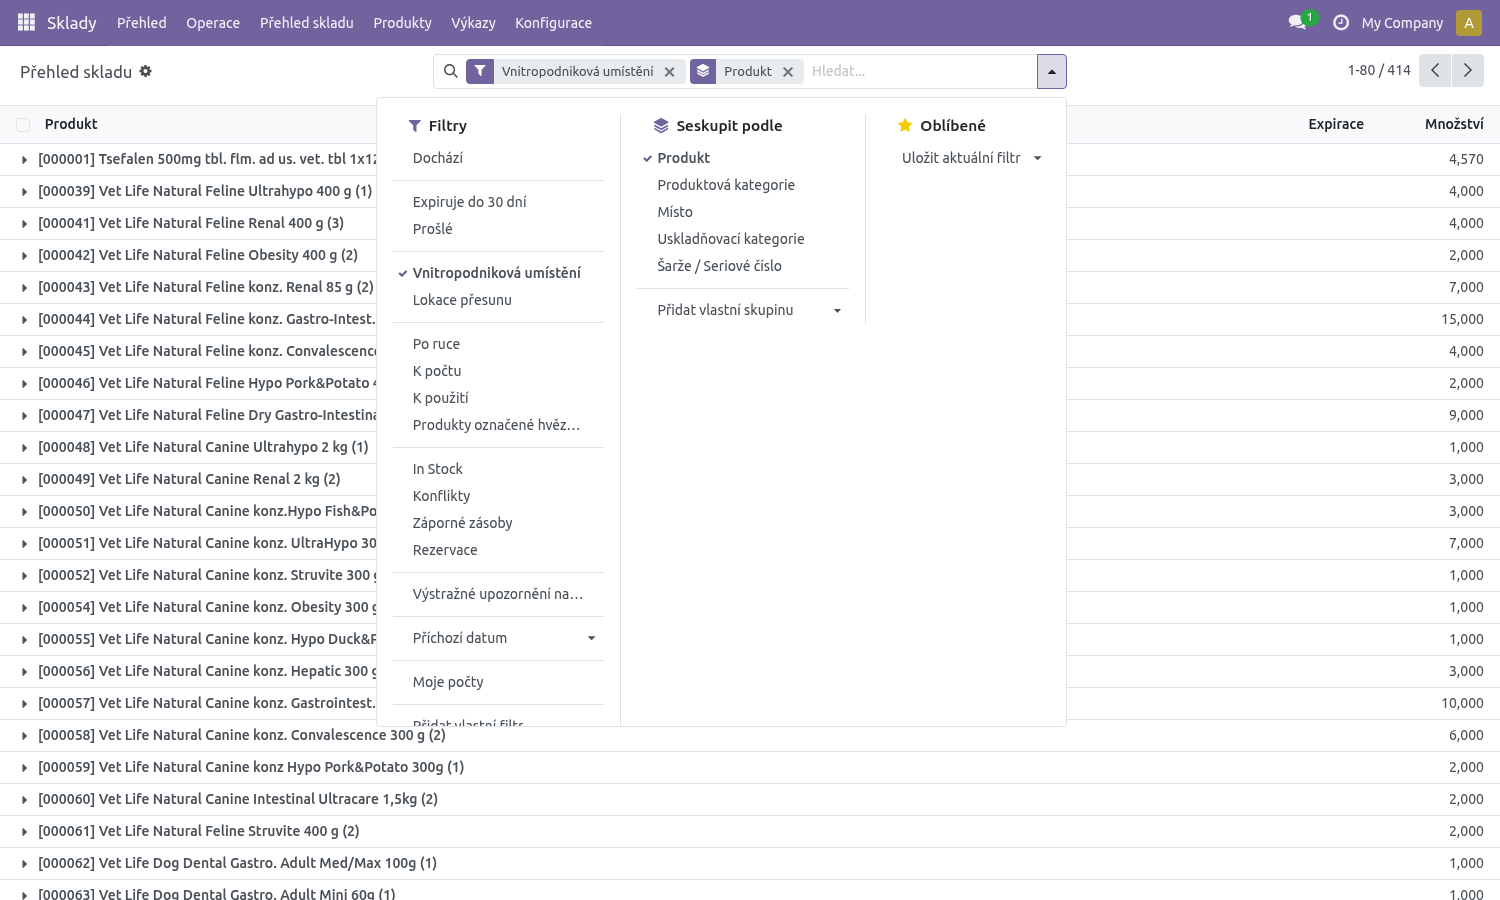
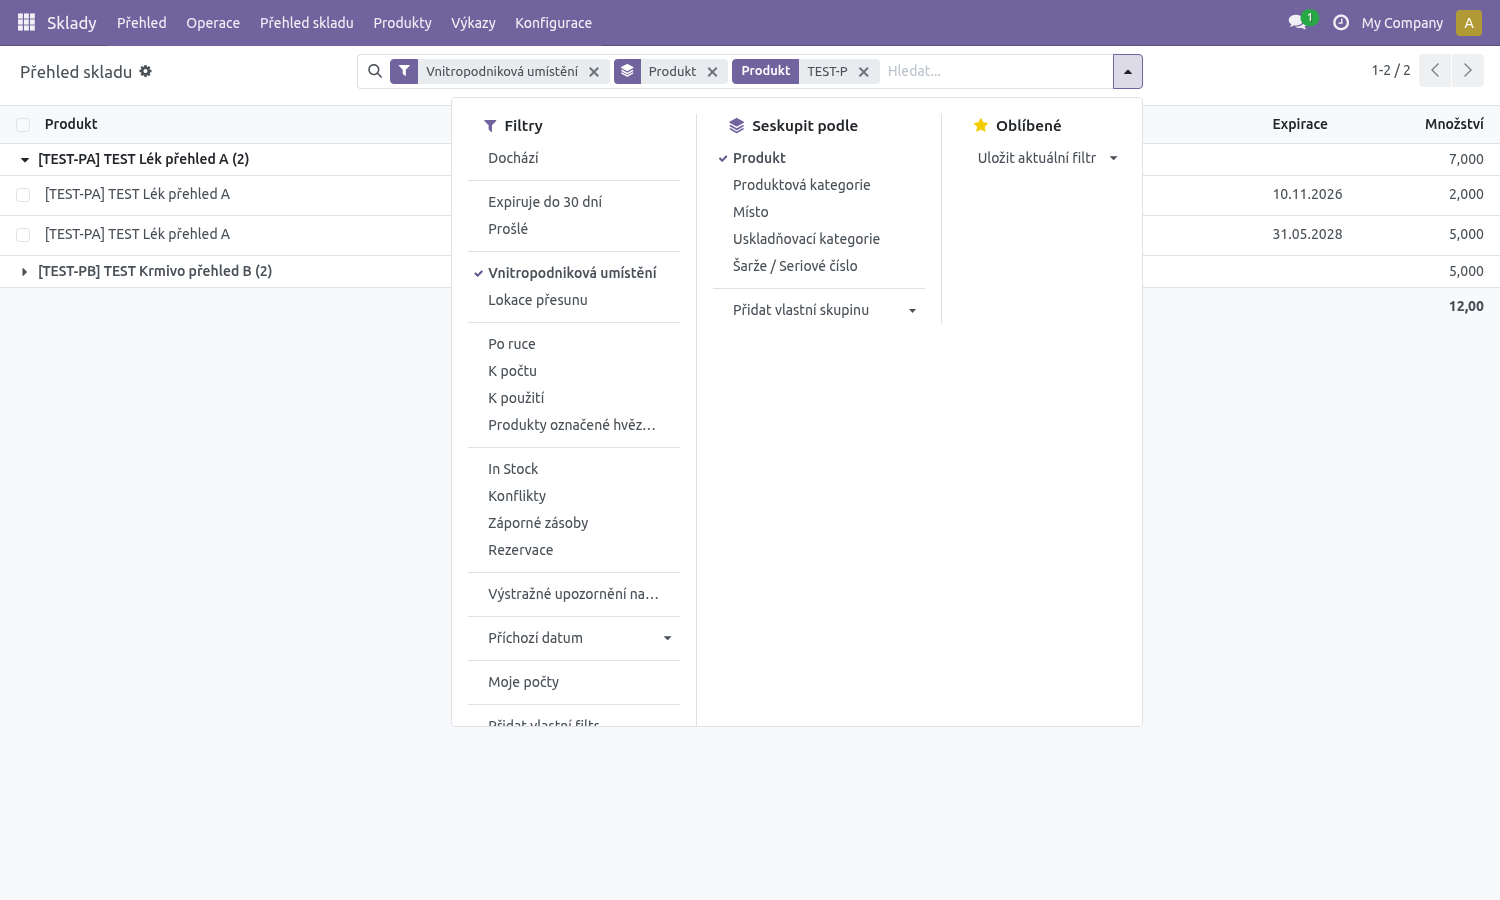
docs(elite-vet): sale – guide wording and screenshots
Button label Nabídka/Objednávka, refund via Akce → Refundace, wording fix;
expense and stock overview screenshots re-taken on test data only.

diff --git a/elite_vet/elite_vet_sale/doc/pokladna-a-sklad.md b/elite_vet/elite_vet_sale/doc/pokladna-a-sklad.md
@@ -34,8 +34,8 @@ Na konci návštěvy klikne **Hotovo, k pokladně** a potvrdí:
 Od té chvíle:
 
 - záznam je uzavřený a v kartě je štítek **Čeká na platbu · S00400** (číslo objednávky,
-  pod kterým účet najdete v pokladně) s poznámkou „Recepce účet najde v pokladně pod
-  tlačítkem Objednávka“,
+  pod kterým účet najdete v pokladně) s poznámkou pro recepci, kde účet v pokladně najde
+  (**Akce → Nabídka/Objednávka**),
 - na **tabuli** má rezervace žlutý štítek **k pokladně**.
 
 ![Karta po Hotovo](img/karta-k-pokladne.png)
@@ -43,11 +43,13 @@ Od té chvíle:
 ![Štítek k pokladně na tabuli](img/tabule-k-pokladne.png)
 
 Když lékařka záznam znovu otevře a doplní, nové **Hotovo** účet přepíše – pořád je to tatáž
-objednávka, nic se nezdvojí.
+objednávka, nic se nezdvojí. Má-li ale recepce účet právě rozpracovaný v pokladně, **Hotovo** skončí
+hláškou „Recepce účet právě vyřizuje v pokladně – počkejte na dokončení platby.“ – počkejte,
+až recepce platbu dokončí (nebo objednávku v pokladně zruší), a zkuste to znovu.
 
 ## 2. Zaplacení účtu (vyrovnání objednávky)
 
-1. V pokladně klikněte vlevo dole na **Akce** a pak na **Objednávka**.
+1. V pokladně klikněte vlevo dole na **Akce** a pak na **Nabídka/Objednávka**.
 
    ![Akce v pokladně](img/pokladna-akce.png)
 
@@ -96,20 +98,20 @@ Po zaplacení:
 
 ## 3. Faktura
 
-Na platební obrazovce klikněte na **Faktura** (zaškrtávátko se zapne). Faktura se vystaví na
+Na platební obrazovce klikněte na **Faktura** (zaškrtávací políčko se zapne). Faktura se vystaví na
 zákazníka z objednávky, tedy majitele pacienta. Po **Potvrdit** se faktura vytvoří jako
 zaplacená (číslo INV/…); najdete ji i v Odoo v **Fakturace → Zákazníci → Faktury**. Má-li být faktura na firmu, vyberte před platbou
 zákazníka (tlačítko se jménem majitele) a firmu.
 
 ## 4. Záloha
 
-1. **Akce → Objednávka** → účet → místo „Vyrovnat objednávku“ zvolte **Zaplatit zálohu
+1. **Akce → Nabídka/Objednávka** → účet → místo „Vyrovnat objednávku“ zvolte **Zaplatit zálohu
    (fixní částkou)** nebo **Zaplatit zálohu (v procentech)**.
 2. Zadejte částku (nebo procento), **Platba**, způsob platby, **Potvrdit**.
 
 Záznam má potom stav **Částečně zaplaceno** a na tabuli zůstává štítek **k pokladně**
 (po najetí myší „Částečně zaplaceno“). Zbytek doplatíte stejně jako celý účet
-(**Akce → Objednávka → Vyrovnat objednávku**) – zaplacená záloha se odečte sama.
+(**Akce → Nabídka/Objednávka → Vyrovnat objednávku**) – zaplacená záloha se odečte sama.
 
 Na účet se zálohou už lékařka nemůže záznam znovu otevřít („Na účet už je zaplacená
 záloha…“) – změny je třeba vyřešit v pokladně.
@@ -119,7 +121,8 @@ záloha…“) – změny je třeba vyřešit v pokladně.
 Zaplacený záznam už nejde znovu otevřít ani zrušit. Když je potřeba vrátit peníze (vrácený lék,
 chyba v účtu), udělejte **vratku v pokladně**:
 
-1. Menu pokladny (☰ vpravo nahoře) → **Objednávky**, v hledání přepněte na zaplacené.
+1. Menu pokladny (☰ vpravo nahoře) → **Objednávky**, v hledání přepněte na zaplacené –
+   nebo vlevo dole **Akce → Refundace** (otevře rovnou seznam zaplacených objednávek).
 2. Najděte objednávku, vyberte řádky, které se vracejí, a klikněte na **Refundace**.
 3. Zaplaťte vratku stejným způsobem, jakým klient platil (u karty vraťte peníze v terminálu).
 
@@ -188,7 +191,7 @@ dál přijímejte i ve WinVetu.
 
 ## 10. Přehled skladu
 
-**Sklady → Přehled skladu** ukazuje, co je na skladě, po šaržích: produkt, šarže, expirace
+**Sklady → Přehled skladu** (recepce: **Ordinace → Přehled skladu**, jen ke čtení) ukazuje, co je na skladě, po šaržích: produkt, šarže, expirace
 a množství. Řádky jsou seskupené podle produktu – kliknutím na produkt uvidíte jeho šarže.
 
 ![Přehled skladu](img/prehled-skladu.png)
